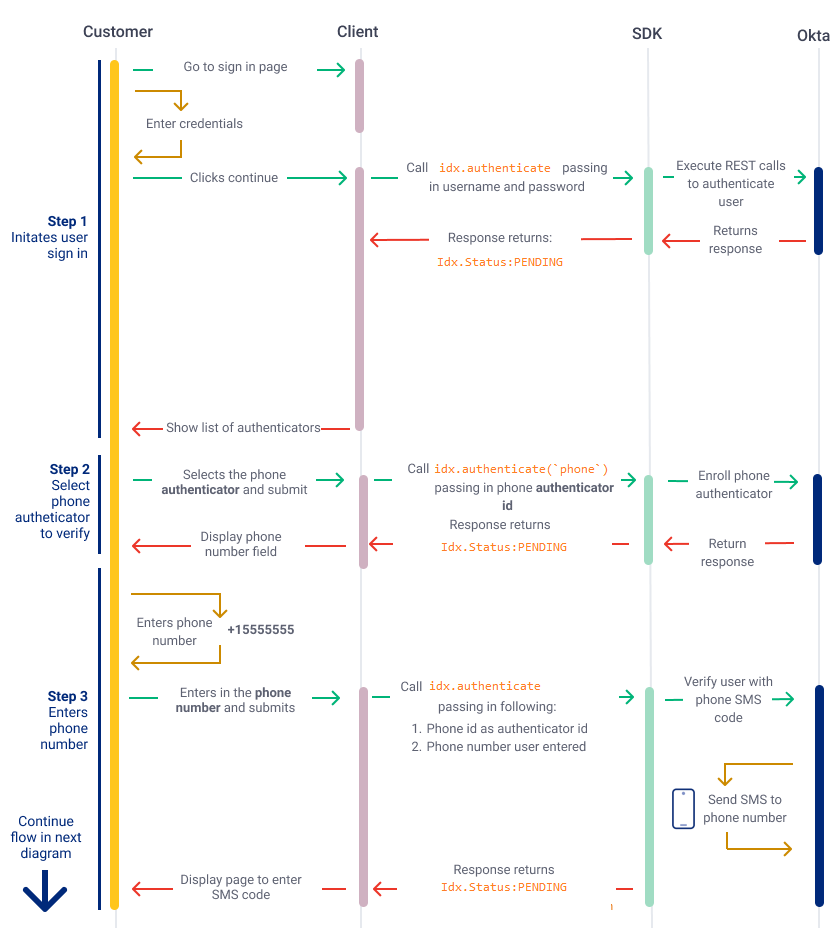
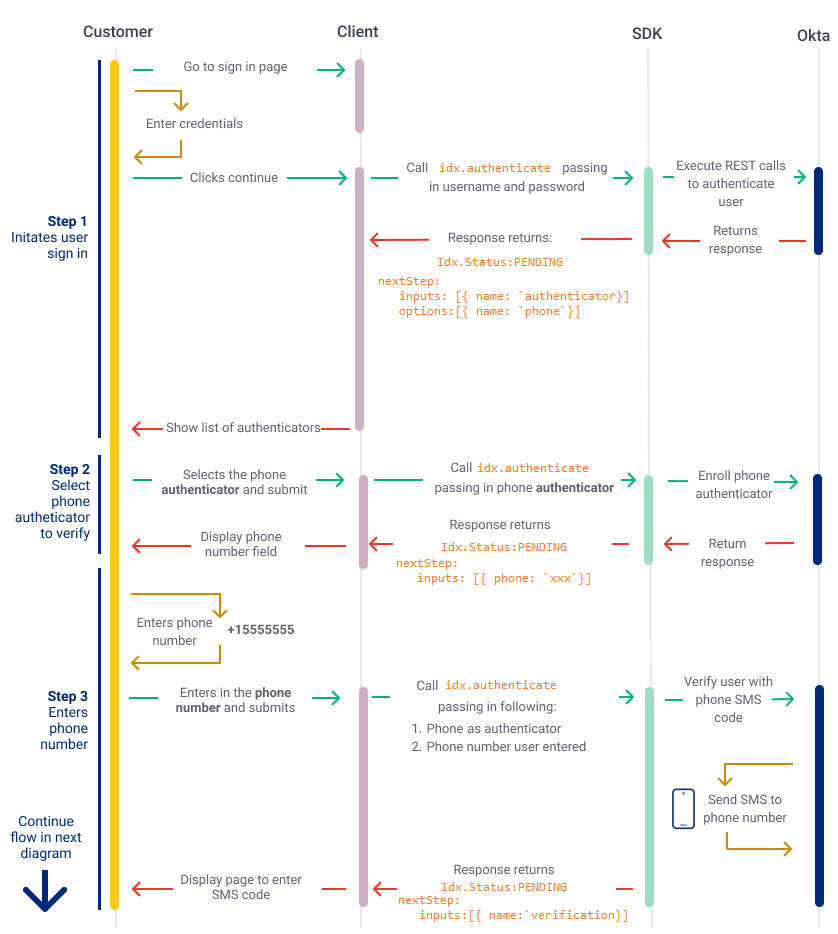
Updating content based on recent feedback

diff --git a/packages/@okta/vuepress-site/docs/guides/oie-embedded-sdk-use-cases/oie-embedded-sdk-use-case-sign-in-pwd-phone/nodejs/integrationsteps.md b/packages/@okta/vuepress-site/docs/guides/oie-embedded-sdk-use-cases/oie-embedded-sdk-use-case-sign-in-pwd-phone/nodejs/integrationsteps.md
@@ -1,6 +1,6 @@
 ## Integration steps
 
-### Step 1: Build a sign-in page on the client
+### Step 1: Build a sign-in page on the client and authenticate user credentials
 
 Build a sign-in page that captures the user's name and password, as shown in the following example.
 
@@ -11,17 +11,21 @@ Build a sign-in page that captures the user's name and password, as shown in the
 
 </div>
 
-### Step 2: Authenticate user credentials
+When the user initiates the sign-in process, your app needs to create a new `OktaAuth` object and set its `username` and `password` properties to the values entered by the user. Send this object to `idx.authenticate` to start the authentication process. See [idx.Authenticate](https://github.com/okta/okta-auth-js/blob/master/docs/idx.md#idxauthenticate) for more information. This call begins the multi-factor authentication flow.
 
-When the user initiates the sign-in process, your app needs to create a new `OktaAuth` object and set its `username` and `password` properties to the values entered by the user. Send this object to the `idx.authenticate` method to start the authentication process. See [idx.Authenticate](https://github.com/okta/okta-auth-js/blob/master/docs/idx.md#idxauthenticate) for more information. This call begins the multi-factor authentication flow and returns a status of `Idx.Status:PENDING`.
+If the username and password are valid, `idx.authenticate` should return a status of `Idx.Status:PENDING`. This status indicates that an additional factor needs to be verified before the sign in. In addition to the status, the `nextStep` field, included in the response, identifies the input parameters of the next step, in this case an authenticator of type phone:
 
-### Step 3: Handle the response from the sign-in
-
-If the username and password are valid, `idx.authenticate` should return an `Idx.Status` of `PENDING`. This status indicates that an additional factor needs to be verified before the sign in. In addition to the status, the `nextSteps` property should return the **phone** factor (`type`).
+```JavaScript
+status, // IdxStatus.PENDING
+  nextStep: {
+    inputs, // [{ name: 'authenticator', ... }]
+    options // [{ name: 'phone', ... }, ...]
+  }
+```
 
 The user should be redirected to an authenticator list page that displays the phone factor as an authenticator to be verified.
 
-### Step 4: Show the phone factor in the authenticator list
+### Step 2: Show the phone factor in the authenticator list
 
 The next step is to show the phone factor in an authenticator list page. If not already done, this page needs to be built out and display the list of authenticators from the previous step. In this use case, only the **phone** factor will be displayed, as shown in the following sample screenshot.
 
@@ -32,13 +36,18 @@ The next step is to show the phone factor in an authenticator list page. If not 
 
 </div>
 
-### Step 5: Call idx.authenticate(phone)
+When the user selects the **phone** factor, call `idx.authenticate` and pass in the authentication phone type, `({ authenticator: 'phone' })`. If the call is successful, the method should return a status of `Idx.Status:PENDING`, which indicates that the SDK needs a phone number in order to send the verification code. The `nextStep` field includes the input for the phone number.
 
-When the user selects the **phone** factor, call `idx.authenticate` and pass in the authentication type '`('phone')`. This call sends a verification code to the user's phone through SMS.
+```JavaScript
+status, // IdxStatus.PENDING
+  nextStep: {
+    inputs, // [{ phone: '+#######', ... }]
+  }
+```
 
-If the call is successful, the method should return an `Idx.Status` of `PENDING`, which indicates that the SDK needs a phone number in order to send the verification code. The next step is to redirect the user to a page to enter in the phone number.
+The next step is to redirect the user to a page to enter in the phone number.
 
-### Step 6: Build the phone number entry page
+### Step 3: Build the phone number entry page
 
 Build the phone number entry page that accepts the phone number that the user will enroll and verify.
 
@@ -51,23 +60,23 @@ Build the phone number entry page that accepts the phone number that the user wi
 
 > **Note:** The SDK requires that the phone number follows the `+#######` format, which starts with a plus (+) sign. See [Data Requirements - Phone number](/docs/guides/oie-embedded-sdk-common/nodejs/main/#phone-number).
 
-### Step 7: Call idx.authenticate(phone number)
-
 When the user enters a phone number and clicks the send code through the SMS button, a call to `idx.authenticate` is made that passes in the following values:
 
-* Authenticator ID (type)
-* Phone number
+* Authenticator (type): `({ authenticator: 'phone' })`
+* Phone number: `({ phone: '+#######' })`
 
 > **Note:** Only SMS is currently supported for the phone authenticator type.
 
-The values are passed in through the `inputs` parameter. See [nextStep](https://github.com/okta/okta-auth-js/blob/master/docs/idx.md#nextstep) for more details.
+If the call to `idx.authenticate` is successful, it should return another status of `Idx.Status:PENDING`. When the status is returned, a code is sent to the phone number through SMS. The `nextStep` field requires the code as a verification input:
 
-### Step 8: Handle the response to EnrollAuthenticatorAsync
+```JavaScript
+status, // IdxStatus.PENDING
+  nextStep: {
+    inputs, // [{ name: 'verification', ... }]
+  }
+```
 
-If the call to `idx.authenticate` is successful, it should return another status of `Idx.Status:PENDING`. When the status is returned, a code is sent to the phone number through SMS.
-
-
-### Step 9: Build or reuse the phone verification code page
+### Step 4: Build or reuse the phone verification code page
 
 Build a page that accepts the code sent to your phone number through SMS. Depending on your implementation, this page can be the same page that verifies the email code or a different page.
 
@@ -78,16 +87,10 @@ Build a page that accepts the code sent to your phone number through SMS. Depend
 
 </div>
 
-### Step 10: Call idx.authenticate(verificationCode) to verify the phone code
+The next step is to call `idx.authenticate` passing in the verification code `({ verification: 'xxx'})`.
 
-The next step is to call `idx.authenticate(verificationCode)`. In the phone verification use case, the code passed into the method will be the code that was sent by SMS to the phone number.
+The next step is to handle the response from `idx.authenticate`. If the phone code was valid, the method should return a status of `Idx.Status:SUCCESS` with tokens. This status signifies that there are no more factors waiting to be enrolled and verified. If the steps described in [Set up your Okta org (for multi-factor use cases)](/docs/guides/oie-embedded-common-org-setup/aspnet/main/#set-up-your-okta-org-for-multifactor-use-cases) were properly followed, the user has successfully signed in and should be sent to the default sign-in home page.
 
-### Step 11: Handle the response from VerifyAuthenticatorAsync (factor verifications completed)
+#### Get user profile information (optional)
 
-The next step is to handle the response from `idx.authenticate(verificationCode)`. If the email code was valid, the method should return an `Idx.Status` of `SUCCESS`. This status signifies that there are no more factors waiting to be enrolled and verified. If the steps described in [Set up your Okta org (for multi-factor use cases)](/docs/guides/oie-embedded-common-org-setup/aspnet/main/#set-up-your-okta-org-for-multifactor-use-cases) were properly followed, the user has successfully signed in and should be sent to the default sign-in home page.
-
-### Step 12: Get user profile information (optional)
-
-Optionally, you can obtain basic user information after a successful sign
-in by making a request to Okta's Open ID Connect authorization server.
-See [Get user profile information after sign in](/docs/guides/oie-embedded-sdk-alternate-flows/nodejs/main/#get-user-profile-information-after-sign-in) for more details.
+Optionally, you can obtain basic user information after a successful sign in by making a request to Okta's Open ID Connect authorization server. See [Get user profile information after sign in](/docs/guides/oie-embedded-sdk-alternate-flows/nodejs/main/#get-user-profile-information-after-sign-in) for more details.

diff --git a/packages/@okta/vuepress-site/docs/guides/oie-embedded-sdk-use-cases/oie-embedded-sdk-use-case-sign-in-pwd-phone/nodejs/summaryofsteps.md b/packages/@okta/vuepress-site/docs/guides/oie-embedded-sdk-use-cases/oie-embedded-sdk-use-case-sign-in-pwd-phone/nodejs/summaryofsteps.md
@@ -2,7 +2,7 @@
 
 <div class="common-image-format">
 
-![Sign in with email and phone 1](/img/oie-embedded-sdk/oie-embedded-sdk-use-case-sign-in-pwd-phone-nodejs.seq-1.png
+![Sign in with email and phone 1](/img/oie-embedded-sdk/oie-embedded-sdk-use-case-sign-in-pwd-phone-nodejs-seq-1.png
  "Sign in with email and phone 1")
 
 </div>
